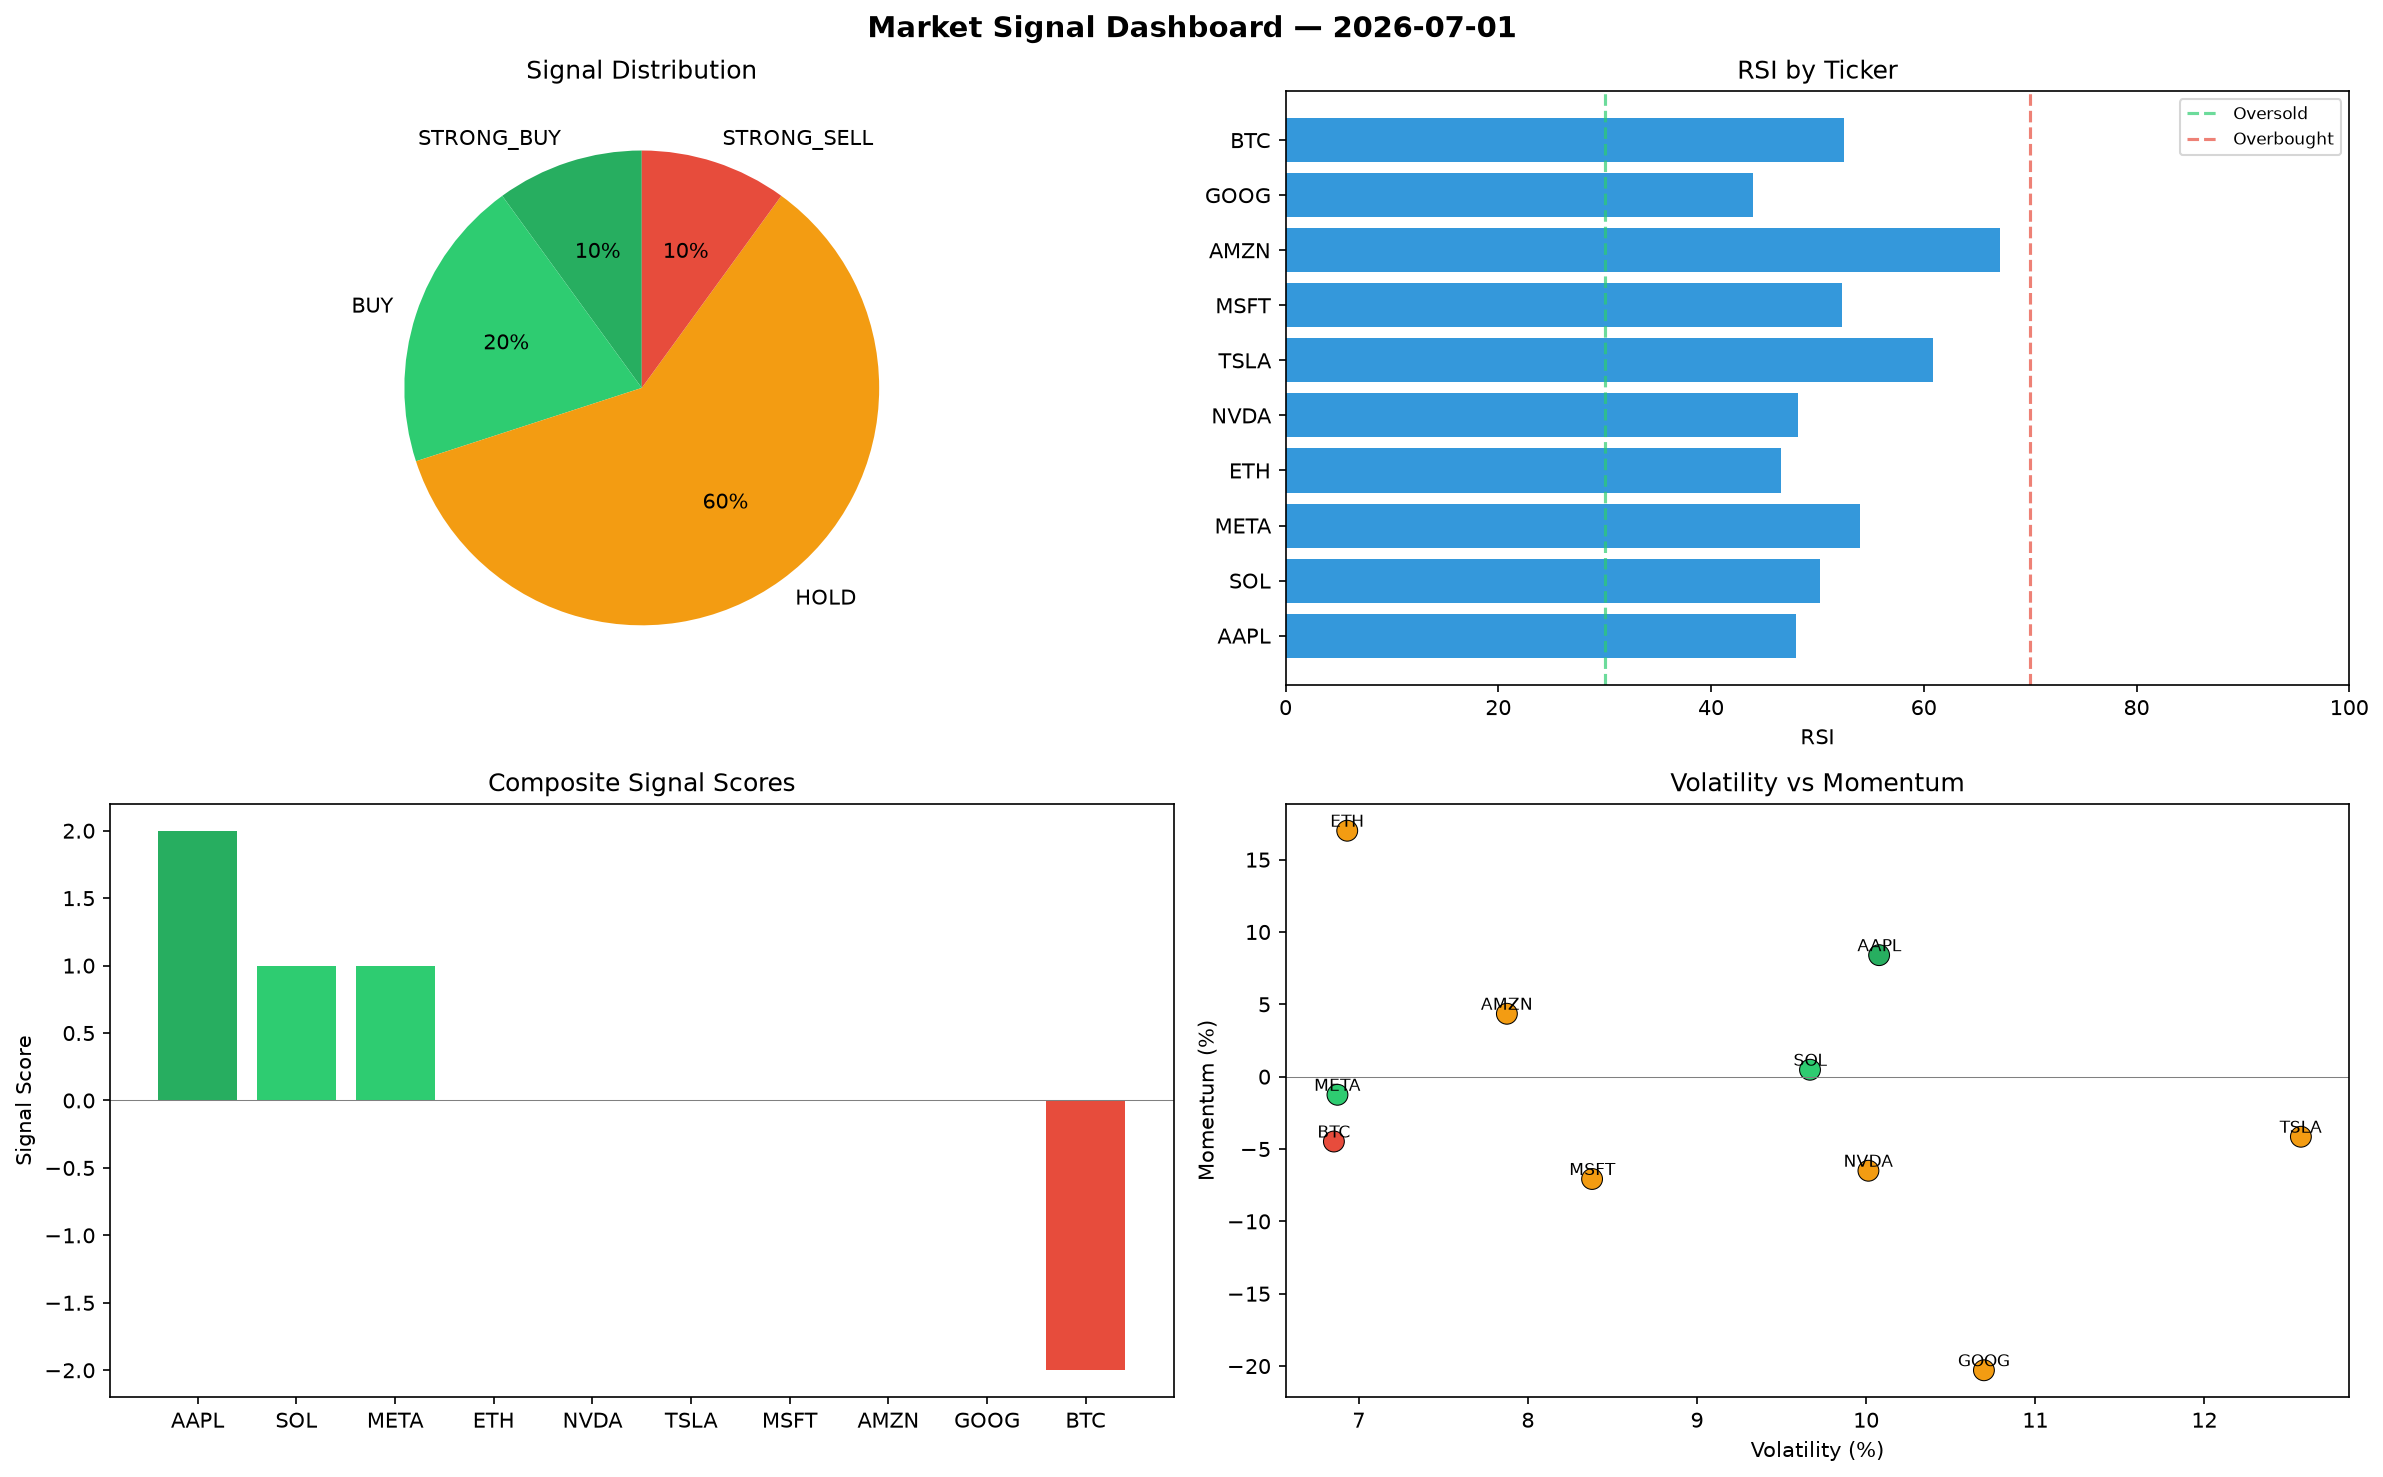
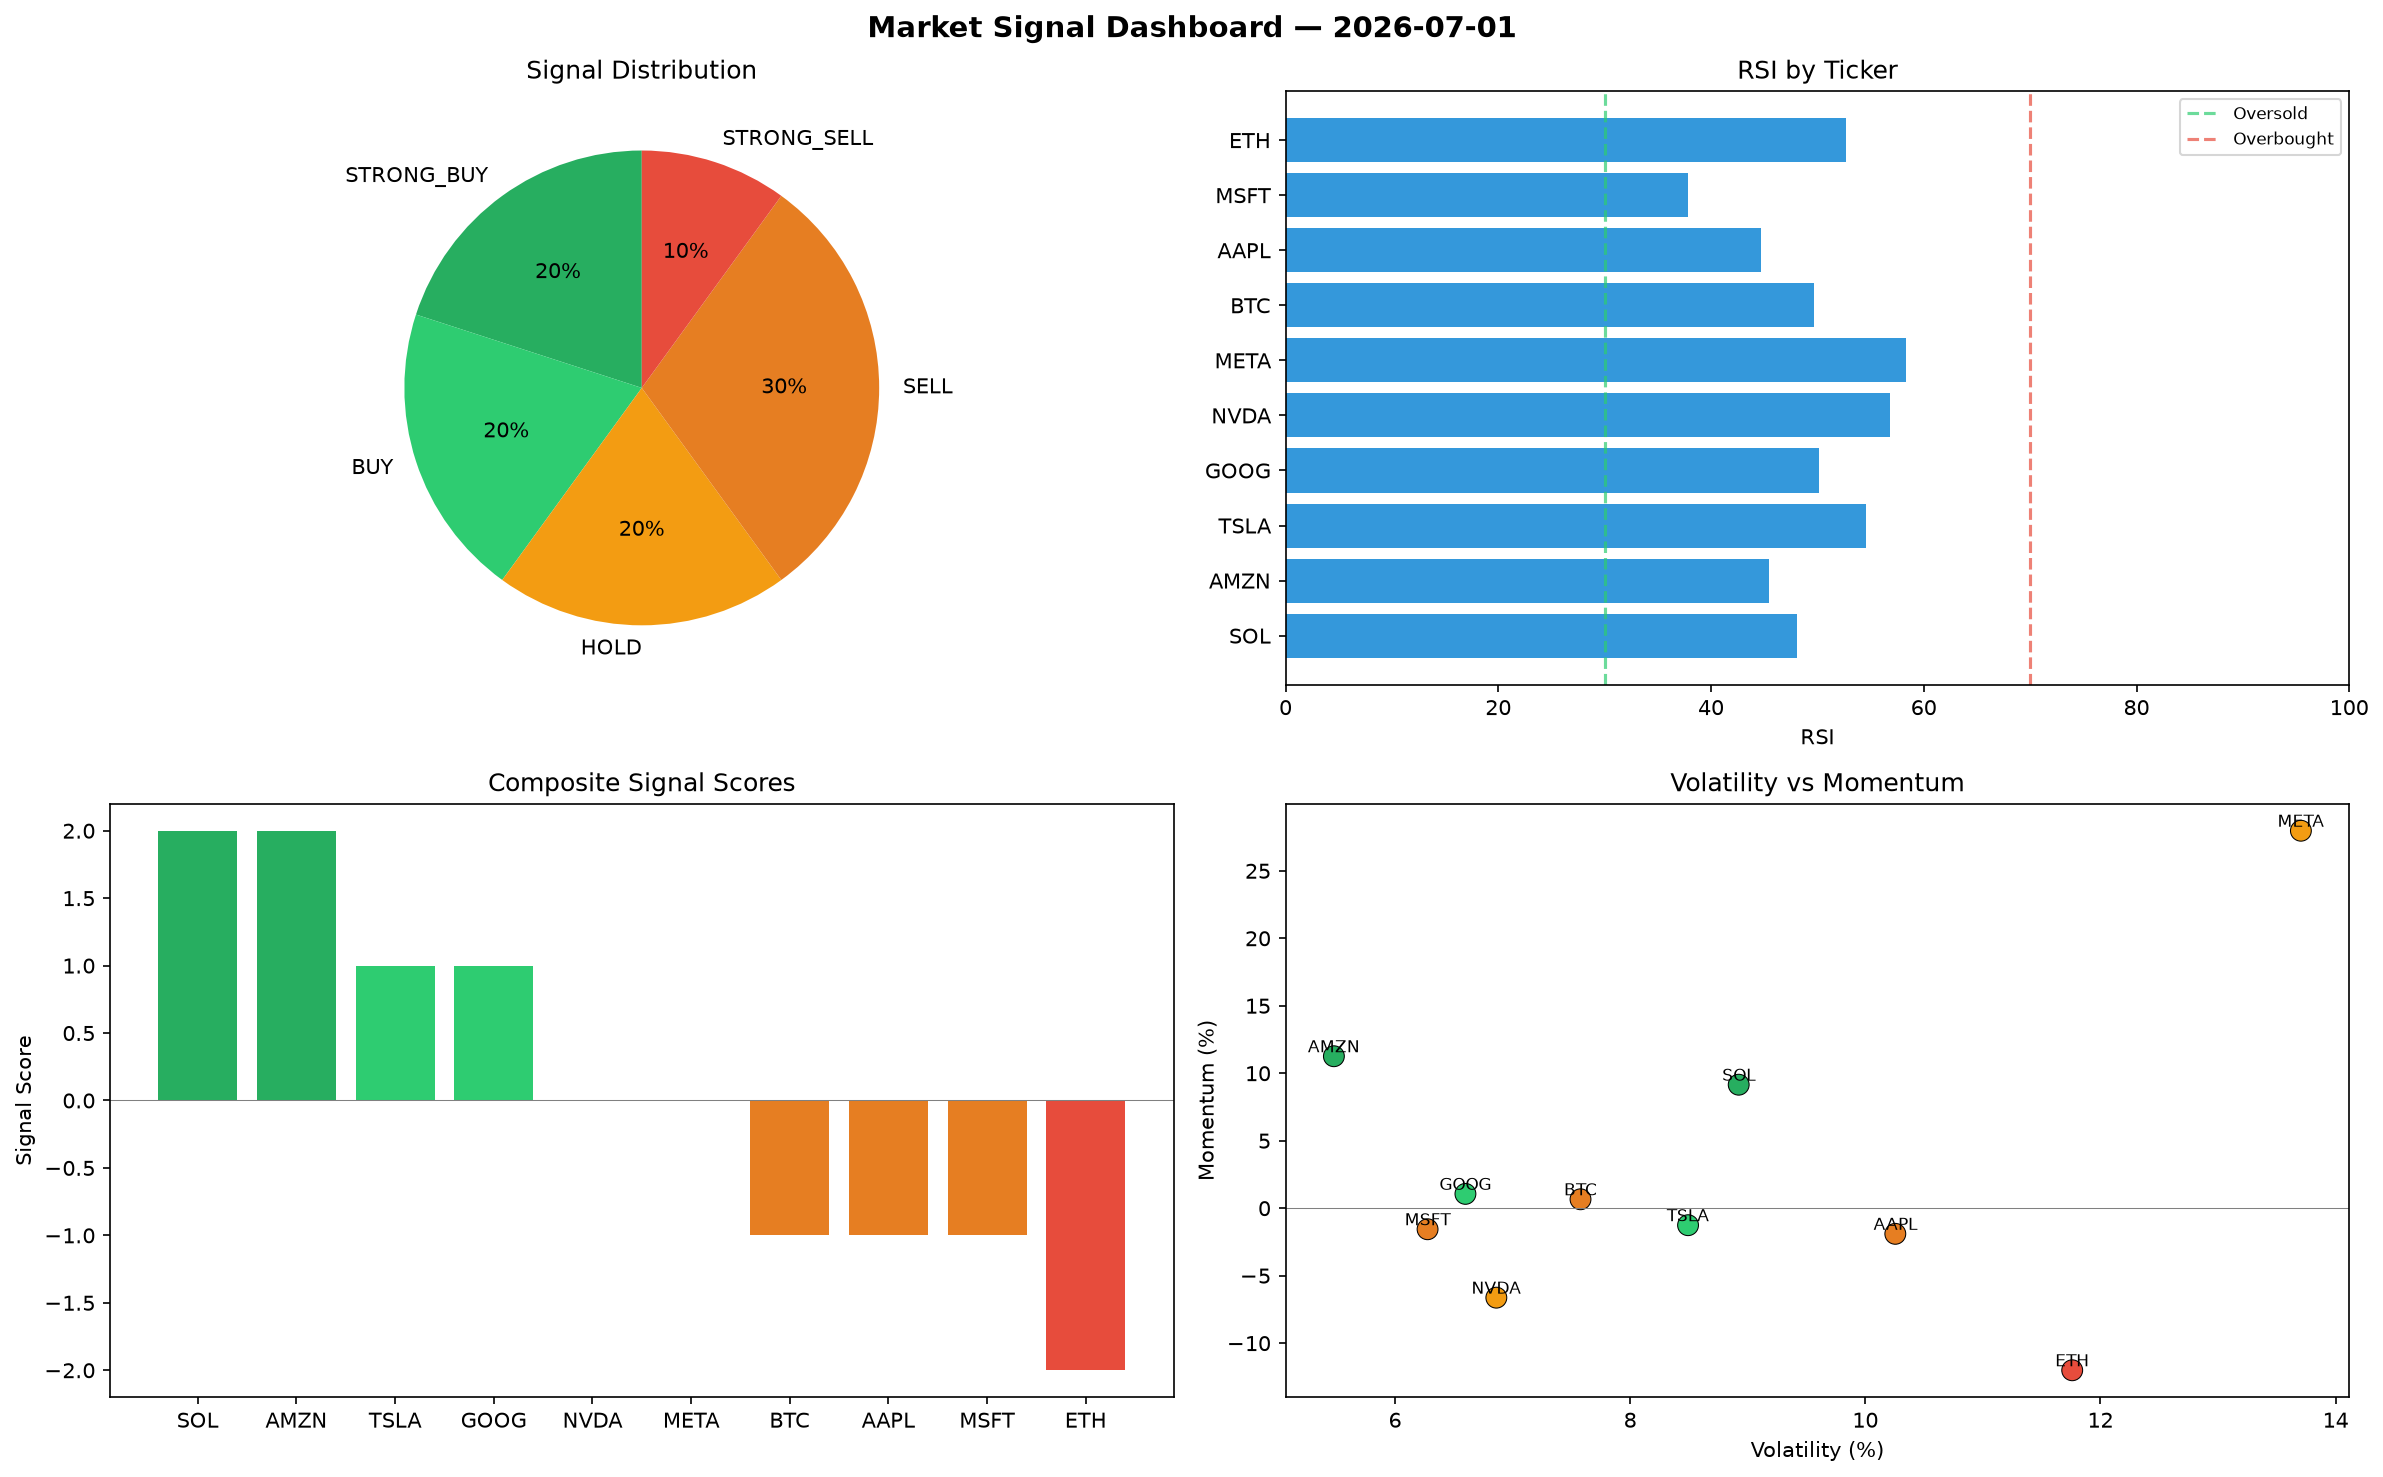
automated-bots: market signals 2026-07-01T21:55

diff --git a/logs/2026-07-01.md b/logs/2026-07-01.md
@@ -1,6 +1,6 @@
 # Market Signal Report — 2026-07-01
 
-**Run ID:** `4ab2efd8ba` | **Buy:** 3 | **Sell:** 1 | **Hold:** 6
+**Run ID:** `a8243d00ab` | **Buy:** 4 | **Sell:** 4 | **Hold:** 2
 
 ![Dashboard](2026-07-01_dashboard.png)
 
@@ -8,28 +8,28 @@
 
 | Ticker | Price | Signal | Score | RSI | Momentum | Confidence |
 |--------|-------|--------|-------|-----|----------|------------|
-| AAPL | $4560.37 | **STRONG_BUY** | 2 | 47.95 | 0.084 | 0.5 |
-| SOL | $2877.49 | **BUY** | 1 | 50.24 | 0.0048 | 0.25 |
-| META | $329.04 | **BUY** | 1 | 54.05 | -0.0125 | 0.25 |
-| ETH | $727.09 | **HOLD** | 0 | 46.6 | 0.17 | 0.0 |
-| NVDA | $381.32 | **HOLD** | 0 | 48.18 | -0.065 | 0.0 |
-| TSLA | $1053.48 | **HOLD** | 0 | 60.88 | -0.0415 | 0.0 |
-| MSFT | $49.44 | **HOLD** | 0 | 52.3 | -0.0707 | 0.0 |
-| AMZN | $2543.39 | **HOLD** | 0 | 67.17 | 0.0435 | 0.0 |
-| GOOG | $2382.83 | **HOLD** | 0 | 43.92 | -0.2029 | 0.0 |
-| BTC | $2324.83 | **STRONG_SELL** | -2 | 52.48 | -0.0448 | 0.5 |
+| SOL | $2154.16 | **STRONG_BUY** | 2 | 48.06 | 0.0915 | 0.5 |
+| AMZN | $4542.4 | **STRONG_BUY** | 2 | 45.46 | 0.1126 | 0.5 |
+| TSLA | $4250.7 | **BUY** | 1 | 54.61 | -0.0126 | 0.25 |
+| GOOG | $1081.72 | **BUY** | 1 | 50.15 | 0.0106 | 0.25 |
+| NVDA | $1972.44 | **HOLD** | 0 | 56.83 | -0.0663 | 0.0 |
+| META | $2187.22 | **HOLD** | 0 | 58.29 | 0.2797 | 0.0 |
+| BTC | $64.15 | **SELL** | -1 | 49.71 | 0.0066 | 0.25 |
+| AAPL | $4417.99 | **SELL** | -1 | 44.67 | -0.019 | 0.25 |
+| MSFT | $2136.7 | **SELL** | -1 | 37.84 | -0.0156 | 0.25 |
+| ETH | $1657.67 | **STRONG_SELL** | -2 | 52.7 | -0.1201 | 0.5 |
 
 ## Delta vs Yesterday
 
 | Ticker | Today | Yesterday | Price Change | Signal Changed |
 |--------|-------|-----------|-------------|----------------|
-| AAPL | STRONG_BUY | HOLD | 📈 66.13% | ⚠ YES |
-| SOL | BUY | HOLD | 📉 -35.92% | ⚠ YES |
-| META | BUY | HOLD | 📉 -82.97% | ⚠ YES |
-| ETH | HOLD | STRONG_SELL | 📉 -75.71% | ⚠ YES |
-| NVDA | HOLD | STRONG_SELL | 📉 -88.7% | ⚠ YES |
-| TSLA | HOLD | STRONG_BUY | 📉 -2.75% | ⚠ YES |
-| MSFT | HOLD | HOLD | 📉 -95.13% | — |
-| AMZN | HOLD | BUY | 📉 -42.46% | ⚠ YES |
-| GOOG | HOLD | STRONG_BUY | 📈 145.32% | ⚠ YES |
-| BTC | STRONG_SELL | HOLD | 📈 952.15% | ⚠ YES |
+| SOL | STRONG_BUY | HOLD | 📉 -52.03% | ⚠ YES |
+| AMZN | STRONG_BUY | BUY | 📈 2.76% | ⚠ YES |
+| TSLA | BUY | STRONG_BUY | 📈 292.4% | ⚠ YES |
+| GOOG | BUY | STRONG_BUY | 📈 11.37% | ⚠ YES |
+| NVDA | HOLD | STRONG_SELL | 📉 -41.53% | ⚠ YES |
+| META | HOLD | HOLD | 📈 13.21% | — |
+| BTC | SELL | HOLD | 📉 -70.97% | ⚠ YES |
+| AAPL | SELL | HOLD | 📈 60.95% | ⚠ YES |
+| MSFT | SELL | HOLD | 📈 110.44% | ⚠ YES |
+| ETH | STRONG_SELL | STRONG_SELL | 📉 -44.62% | — |
